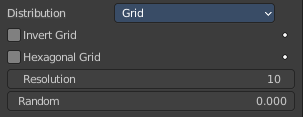
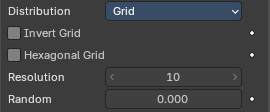
Particles: Emission Source Grid, labels in front of the sliders #1722
Bforartists #6984 put the Resolution and Random labels in front of
their sliders. Refreshes the Grid capture and fixes the merged
'GridInvert Grid' heading on the Emitter and Hair pages.

diff --git a/docs2/content/editors/properties/particle-properties-tab/emitter-emission-panel.md b/docs2/content/editors/properties/particle-properties-tab/emitter-emission-panel.md
@@ -108,12 +108,13 @@ The emitter element indices are gone through in a random order instead of linear
 
 Particle distribution is made even based on surface area of the elements, i.e. small elements emit less particles than large elements, so that the particle density is even.
 
-###### GridInvert Grid
+###### Grid
 
-![Invert Grid](/docs2/images/editors/properties/particle-properties-tab/emitter-emission-panel/invert-grid.png)
+![Distribution set to Grid](/docs2/images/editors/properties/particle-properties-tab/emitter-emission-panel/invert-grid.png)
 
-Invert what is considered the object and what is not.
+With **Distribution** set to **Grid**, the particles sit on the points of a regular grid that fall on the emitter, instead of at random places. Number and Seed are greyed out, because the grid decides how many particles there are.
 
+- **Invert Grid**: Invert what is considered the object and what is not.
 - **Hexagonal Grid**: Uses a hexagonal-shaped grid instead of a rectangular one.
-- **Resolution**: Resolution of the grid.
+- **Resolution**: Resolution of the grid. Higher values make a finer grid with more particles.
 - **Random**: Add a random offset to grid locations.

diff --git a/docs2/content/editors/properties/particle-properties-tab/hair-emission-panel.md b/docs2/content/editors/properties/particle-properties-tab/hair-emission-panel.md
@@ -100,12 +100,13 @@ The emitter element indices are gone through in a random order instead of linear
 
 Particle distribution is made even based on surface area of the elements, i.e. small elements emit less particles than large elements, so that the particle density is even.
 
-###### GridInvert Grid
+###### Grid
 
-![Invert Grid](/docs2/images/editors/properties/particle-properties-tab/emitter-emission-panel/invert-grid.png)
+![Distribution set to Grid](/docs2/images/editors/properties/particle-properties-tab/emitter-emission-panel/invert-grid.png)
 
-Invert what is considered the object and what is not.
+With **Distribution** set to **Grid**, the particles sit on the points of a regular grid that fall on the emitter, instead of at random places. Number and Seed are greyed out, because the grid decides how many particles there are.
 
+- **Invert Grid**: Invert what is considered the object and what is not.
 - **Hexagonal Grid**: Uses a hexagonal-shaped grid instead of a rectangular one.
-- **Resolution**: Resolution of the grid.
+- **Resolution**: Resolution of the grid. Higher values make a finer grid with more particles.
 - **Random**: Add a random offset to grid locations.
